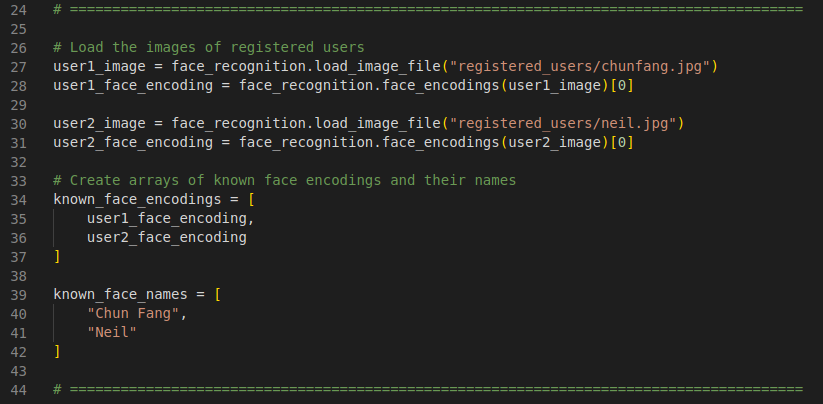
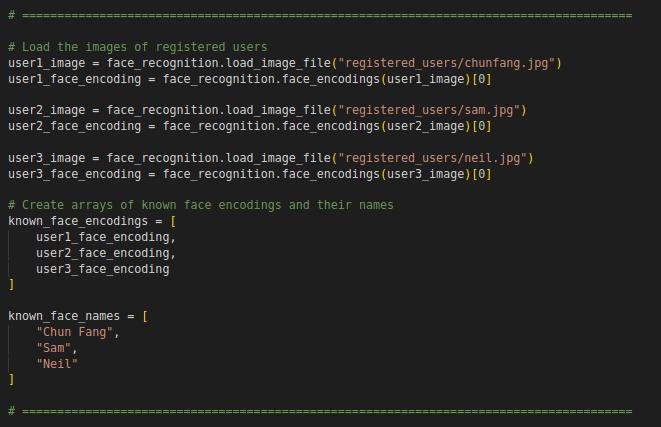
amend readme

Changed region(s): [[0.0, 0.0, 0.9682, 0.9802]]

diff --git a/README.md b/README.md
@@ -8,7 +8,7 @@ Warm greetings from our Smart Security Door!
 ![add registered users1](./scripts/samples/add_registered_users_code1.png)
 ![add registered users2](./scripts/samples/add_registered_users_code2.png)
   
-For the example shown above, Chun Fang is registered as **user1**, while Neil is registered as **user2**. They are recognized as authorized users. To register additional authorities, you may amend the list of `known_face_names` and `known_face_encodings` along with their facial images stored in the `/registered_users` folder.  
+For the example shown above, Chun Fang is registered as **user1**, Sam is registered as user2, and Neil is registered as **user3**. They are recognized as authorized users. To register additional authorities, you may amend the list of `known_face_names` and `known_face_encodings` along with their facial images stored in the `/registered_users` folder.  
 
 3) Run the following scripts in separated terminals.  
   
